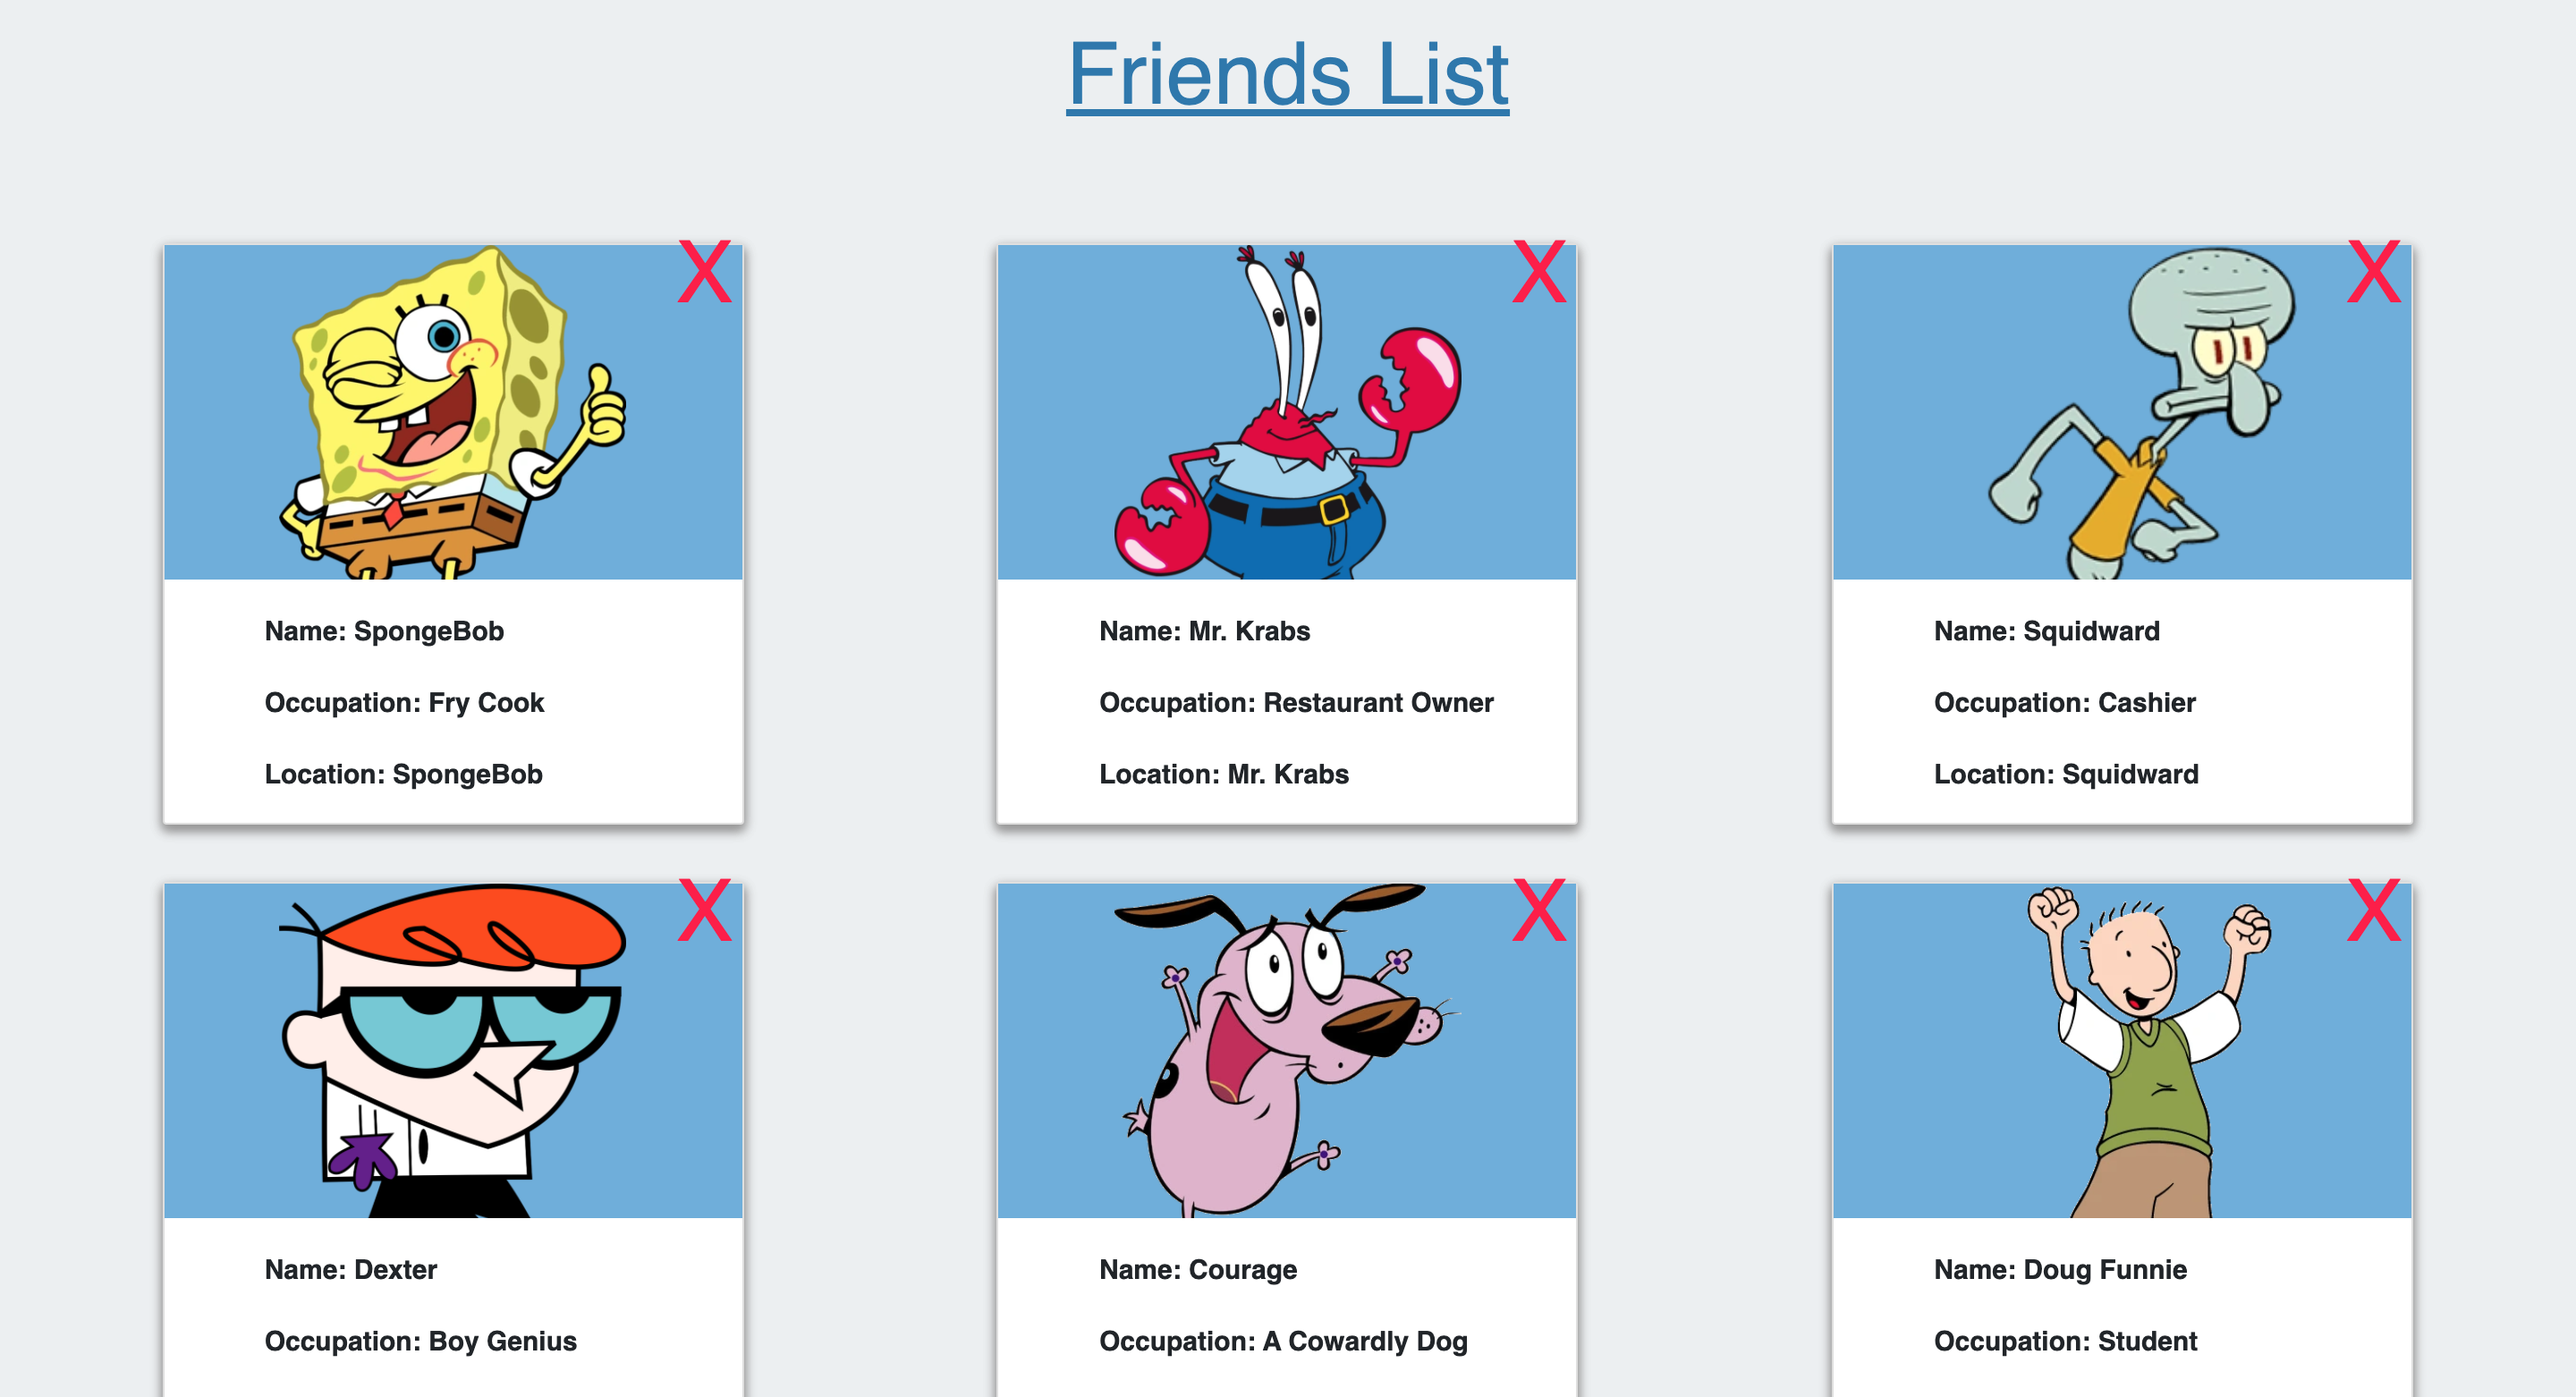
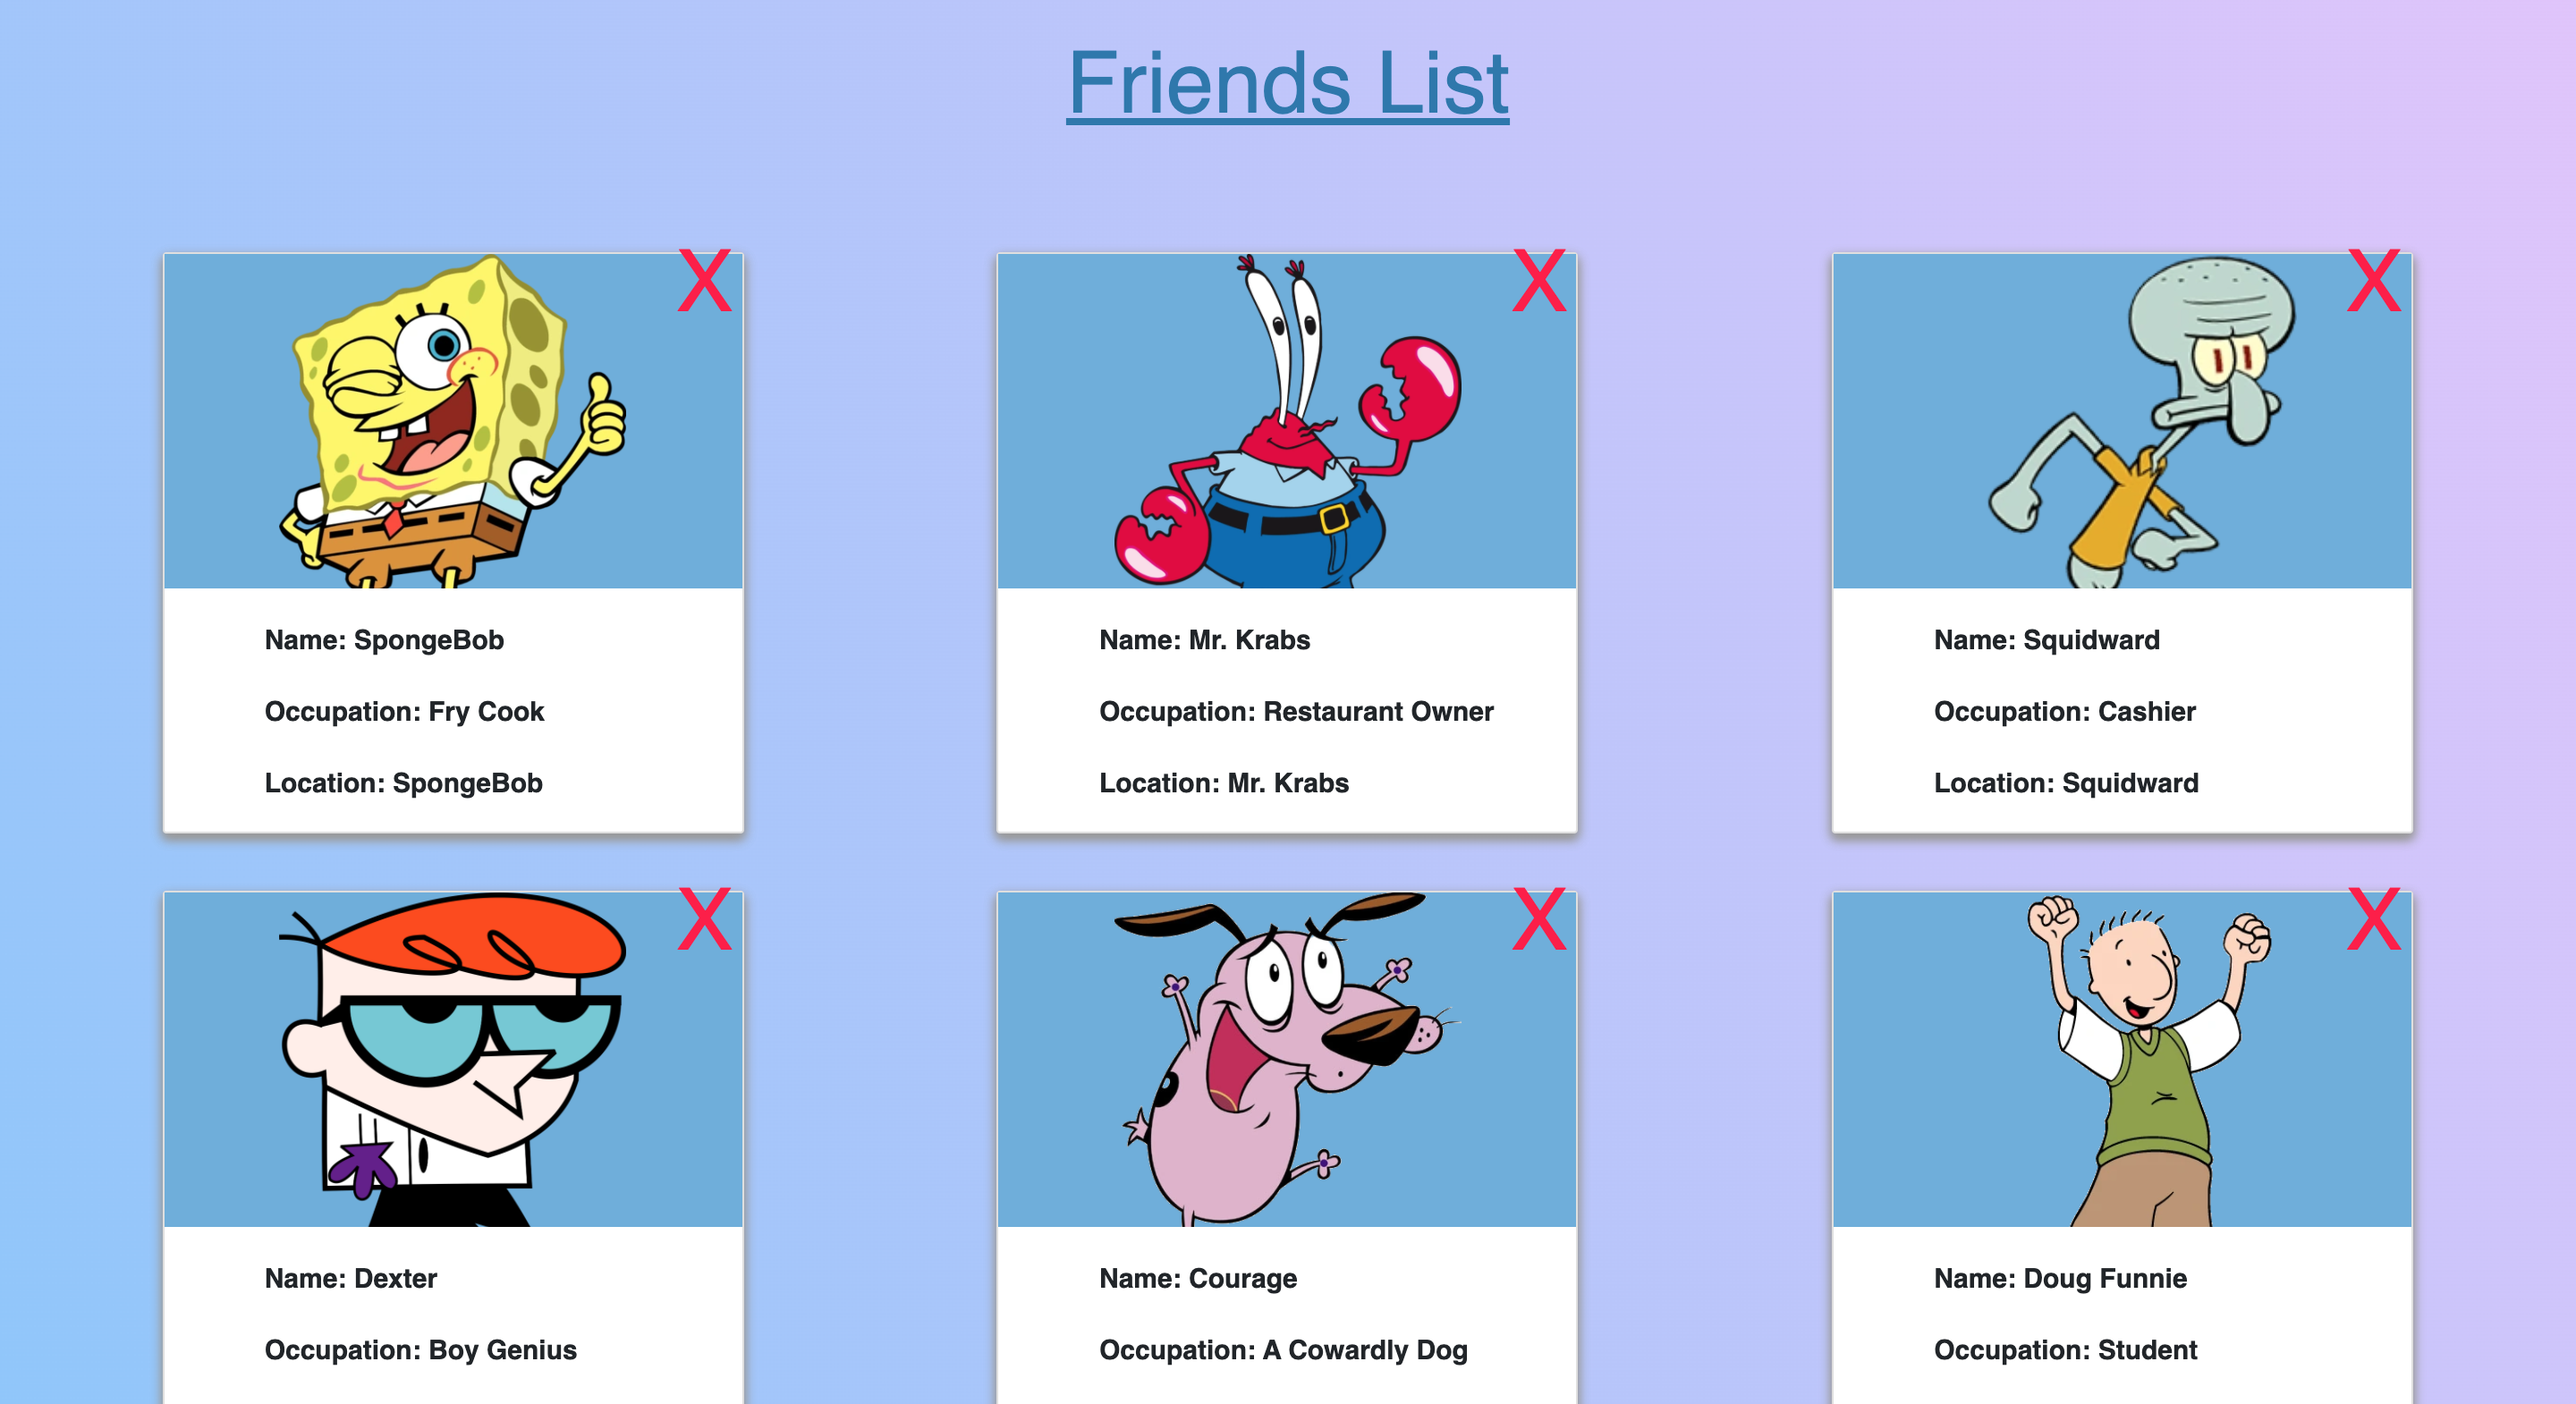
updated footer/navbar

diff --git a/src/Components/ProjectsPage/projectsPage.js b/src/Components/ProjectsPage/projectsPage.js
@@ -164,6 +164,54 @@ const ProjectsPage = () => {
           <img
             className="project--img"
             alt="first-website"
+            src="/project-images/Friends-list-project.png"
+          />
+          <div className="button-container">
+            <a
+              href="https://friends-list-react.netlify.app/"
+              target="_blank"
+              rel="noopener noreferrer"
+            >
+              <button className="neon">Website</button>
+            </a>
+            <a
+              href="https://github.com/LeCoding-tech/friends-list-app-react"
+              target="_blank"
+              rel="noopener noreferrer"
+            >
+              <button className="neon">Github</button>
+            </a>
+          </div>
+        </div>
+
+        <div className="projects">
+          <img
+            className="project--img"
+            alt="first-website"
+            src="/project-images/react-counter-app.png"
+          />
+          <div className="button-container">
+            <a
+              href="https://react-counter-app-lifecycles.netlify.app/"
+              target="_blank"
+              rel="noopener noreferrer"
+            >
+              <button className="neon">Website</button>
+            </a>
+            <a
+              href="https://github.com/LeCoding-tech/counter-app-lifecycles"
+              target="_blank"
+              rel="noopener noreferrer"
+            >
+              <button className="neon">Github</button>
+            </a>
+          </div>
+        </div>
+
+        <div className="projects">
+          <img
+            className="project--img"
+            alt="first-website"
             src="/project-images/guessing-game.png"
           />
           <div className="button-container">
@@ -184,29 +232,7 @@ const ProjectsPage = () => {
           </div>
         </div>
 
-        <div className="projects">
-          <img
-            className="project--img"
-            alt="first-website"
-            src="/project-images/Friends-list-project.png"
-          />
-          <div className="button-container">
-            <a
-              href="https://friends-list-react.netlify.app/"
-              target="_blank"
-              rel="noopener noreferrer"
-            >
-              <button className="neon">Website</button>
-            </a>
-            <a
-              href="https://github.com/LeCoding-tech/friends-list-app-react"
-              target="_blank"
-              rel="noopener noreferrer"
-            >
-              <button className="neon">Github</button>
-            </a>
-          </div>
-        </div>
+        
 
         <div className="projects">
           <img

diff --git a/src/Components/Navbar/navbar.js b/src/Components/Navbar/navbar.js
@@ -9,7 +9,9 @@ const Altbar = () => {
             <nav>
                  <ul>
                      <li><h2 className="logo">Leeangelo Riley</h2></li>
-                     <li><Link activeClass="active"
+                     <div className="nav-ele">
+                     <li><Link
+              activeClass="bold"
               to="aboutMe--body"
               spy={true}
               smooth={true}
@@ -17,7 +19,9 @@ const Altbar = () => {
               duration={1000}
               className="link"
               ><p>Home</p></Link></li>
-                     <li><Link activeClass="active"
+
+                     <li><Link
+              activeClass="bold"
               to="projectsPage--body"
               spy={true}
               smooth={true}
@@ -25,7 +29,8 @@ const Altbar = () => {
               duration={500}
               className="link"
               ><p>Projects</p></Link></li>
-                     <li><Link activeClass="active"
+                     <li><Link
+              activeClass="bold"
               to="skills-body"
               spy={true}
               smooth={true}
@@ -33,15 +38,19 @@ const Altbar = () => {
               duration={1000}
               className="link"
               ><p>Skills</p></Link></li>
-                     <li><Link activeClass="active"
-              to="inner-width"
+
+                     <li><Link
+              activeClass="bold"
+              to="contact"
               spy={true}
               smooth={true}
               offset={0}
               duration={1000}
               className="link"
               ><p>Contact</p></Link></li>
-                     <li><a className="link" href={Resume} target="_blank" rel="noopener noreferrer"><h3>Resume</h3></a></li>
+        
+                     <li><a className="link" href={Resume} target="_blank" rel="noopener noreferrer"><p>Resume</p></a></li>
+                     </div>
                  </ul>
             </nav>
         </div>

diff --git a/src/Components/Footer/footer.css b/src/Components/Footer/footer.css
@@ -4,25 +4,23 @@
     align-items: center;
     height: 3.438rem;
     width: 100vw;
-    text-align: end;
     border-top: 0.063rem solid #fff;
+    justify-content: space-between;
+
   }
-  
+
   .footer--text {
-    width: 50%;
+    padding: 1rem;
     font-family: "Courier New", Courier, monospace;
     font-size: 20px;
     color: #fff;
   }
-  
+
   .footer--socialLinks {
-    width: 100%;
     color: #fff;
     text-decoration: none;
-    justify-content: end;
     flex-direction: row;
     align-items: center;
-    padding-right: 250px;
   }
 
   .social:hover {
@@ -40,4 +38,16 @@
 
   .footer--a {
     color: #fff;
+  }
+
+  @media screen and (max-width:667px) {
+    .footer--text {
+      font-size: 16px;
+    }
+    .social {
+      margin: 0;
+    }
+    .fab {
+      font-size: 1.5rem !important;
+    }
   }

diff --git a/src/Components/Navbar/navbar.css b/src/Components/Navbar/navbar.css
@@ -1,8 +1,5 @@
 .wrapper {
-    display: flex;
-    flex-direction: column;
     position: fixed;
-    justify-content: flex-end;
 }
 
 nav {
@@ -10,13 +7,20 @@ nav {
     width: 100vw;
 }
 
+
 nav ul {
+    width: 100%;
     list-style: none;
     margin: 0;
     padding: 0;
 }
 
+.nav-ele {
+    float: right;
+}
+
 nav ul li {
+    justify-content: flex-end;
     display: inline-flex;
 }
 
@@ -36,7 +40,6 @@ nav h2 {
     text-decoration: none;
     color: whitesmoke;
     font-family: "Courier New", Courier, monospace;
-    padding-right: 40rem;
   }
 
 nav ul li .link:hover {
@@ -63,4 +66,8 @@ nav ul li .link:after {
 nav ul li .link:hover:after {
     -webkit-transform: translateX(-50%) scaleX(1);
     transform: translateX(-50%) scaleX(1);
+}
+
+.bold {
+    font-weight: bold;
 }

diff --git a/src/Components/Contact/ContactPage.js b/src/Components/Contact/ContactPage.js
@@ -60,6 +60,7 @@ class ContactPage extends React.Component {
 
   render() {
     return (
+      <div className="contact">
         <div className="skills-body">
           <div className="inner-width">
             <h1>Contact me</h1>
@@ -97,7 +98,7 @@ class ContactPage extends React.Component {
             </form>
           </div>
         </div>
-
+      </div>
     );
   }
 }

diff --git a/src/index.css b/src/index.css
@@ -5,6 +5,11 @@ body {
     sans-serif;
   -webkit-font-smoothing: antialiased;
   -moz-osx-font-smoothing: grayscale;
+  background-attachment: fixed;
+  background-position: center;
+  background-repeat: no-repeat;
+  background-size: cover;
+  background-image: linear-gradient(rgba(0, 0, 0, 0.7), rgba(0, 0, 0, 0.7)), url('/images/Keyboard-Background.jpg');
 }
 
 code {

diff --git a/src/Components/Skills/skills.css b/src/Components/Skills/skills.css
@@ -1,10 +1,4 @@
-.skills-body {
- background-attachment: fixed;
-  background-position: center;
-  background-repeat: no-repeat;
-  background-size: cover;
-  background-image: linear-gradient(rgba(0, 0, 0, 0.7), rgba(0, 0, 0, 0.7)), url('/images/Keyboard-Background.jpg');
-}
+
 
 .skills-body img {
   width: 15rem;

diff --git a/src/Components/About-me/aboutMe.css b/src/Components/About-me/aboutMe.css
@@ -6,11 +6,6 @@
 }
 
 .aboutMe--body {
-    background: linear-gradient(rgba(0, 0, 0, 0.5), rgba(0, 0, 0, 0.5)), url('/images/Keyboard-Background.jpg');
-    background-attachment: fixed;
-    background-position: center;
-    background-repeat: no-repeat;
-    background-size: cover;
     height: 100vh;
 }
 

diff --git a/src/Components/Footer/footer.js b/src/Components/Footer/footer.js
@@ -24,6 +24,8 @@ const Footer = () => {
             </p>
           </div>
 
+          <p className="footer--text">Last Modified: 7/16/2020</p>
+
           <div className="footer--socialLinks">
             <a
               className="social"

diff --git a/src/Components/ProjectsPage/projectsPage.css b/src/Components/ProjectsPage/projectsPage.css
@@ -39,7 +39,7 @@ border-radius: 90px;
     display: inline-flex;
     justify-content: space-evenly;
     width: 100%;
-    padding-right: 4rem;
+    padding-right: 2.3rem;
 }
 
 /* Glowing buttons */
